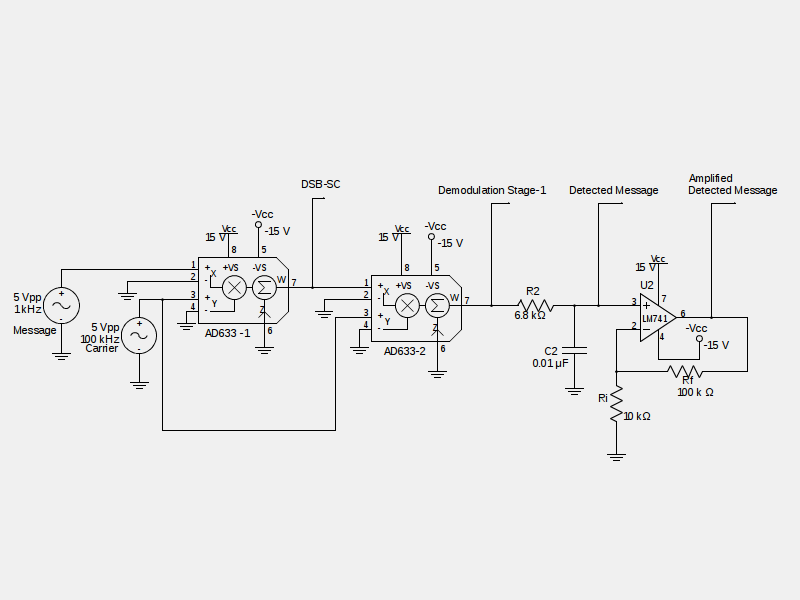
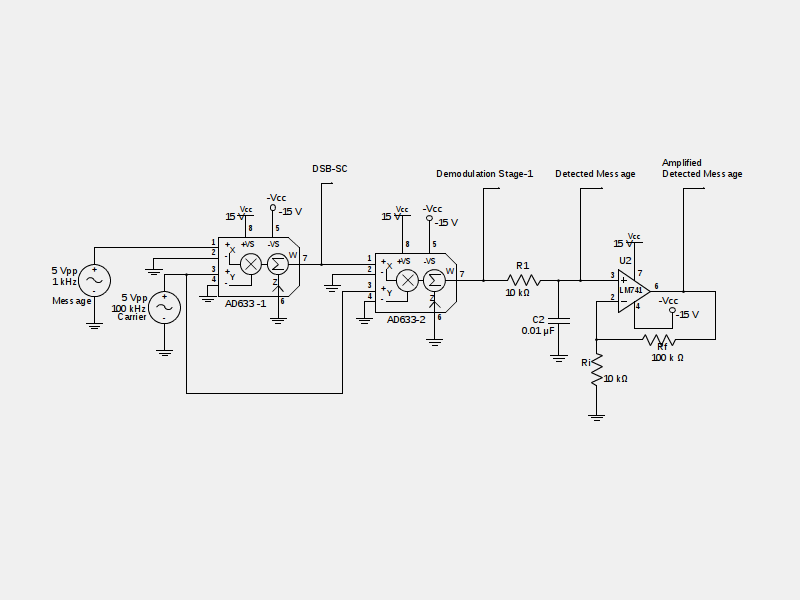
Miscellaneous edits in DSBSC using 633 IC
Content clarity enhanced. Filter design updated. COrresponding changes introduced
 in circuit diagram.

diff --git a/chapters/BalancedModulatorforDSBSC.tex b/chapters/BalancedModulatorforDSBSC.tex
@@ -59,11 +59,11 @@ Thus the signal consists of various frequencies of which, the smallest is the me
 %%%%%%%%%%%%%%%%%%%%%%%%%%%%%%%%%%%%
 \section*{Design}
 
-To the \textbf{X} input of the IC, feed the message sinusoid of amplitude $E_m=2.5\ V$ and frequency $f_m= 1\ kHz$.\\
+To the \textbf{X} input of the IC, feed the message sinusoid of amplitude $E_m=2.5\ V$ (ie., peak to peak amplitude of 5 V) and frequency $f_m= 1\ kHz$.\\
 
 To the \textbf{Y} input of the IC, feed the carrier sinusoid of amplitude $E_c=2.5\ V$ and frequency $f_c= 100\ kHz$.\\
 Ground the \textbf{Z} input of the IC.\\
-Provide the biasing voltage of \textbf{+15 V to pin 8} of the IC and \textbf{-15 V to pin 5} of the IC.\\
+Provide the supply voltage of \textbf{+15 V to pin 8} of the IC and \textbf{-15 V to pin 5} of the IC.\\
 
 The output signal will have a waveform as given by,
 
@@ -99,15 +99,15 @@ W=& \frac{15.625}{200}sin(2\pi 1kt)\\
 
 \noindent This waveform is shown in Figure \ref{dsbsc633plot2}, which is the stage -1 in demodulation. The next step is to obtain the message signal. This is done by lowpass filtering the above signal at a cut-off frequency of 1.5 kHz.
 
-To design an RC lowpass filter of cut-off frequency 1kHz,
+To design an RC lowpass filter of cut-off frequency 1.5 kHz,
 
 \begin{equation}
 f_c=\frac{1}{2\pi R_1C_1}=1.5kHz
 \end{equation}
 Choose $C_1=0.01\  \mu F$
-$\therefore  R_1 =7.5 \ k \Omega$
+$\therefore  R_1 =10 \ k \Omega$
 
-A non-inverting amplifier may be used to amplify this signal. Using a feedback resistor of $R_f= 100 \ \k Omaga$ and an input resistance of $R_i=10\ k\Omega$ will result in a gain of $A_v=1+\frac{R_f}{R_i}=11$.
+A non-inverting amplifier may be used to amplify this signal. Using a feedback resistor of $R_f= 100 \ \k \Omega$ and an input resistance of $R_i=10\ k\Omega$ will result in a gain of $A_v=1+\frac{R_f}{R_i}=11$.
 \begin{sidewaysfigure}[ht]
     \includegraphics[scale=0.8, trim=0cm 4cm 0cm 4cm,clip=true]{633dsbsc.png}
     \caption{Circuit for DSB-SC generation and detection using AD633 multiplier IC}
